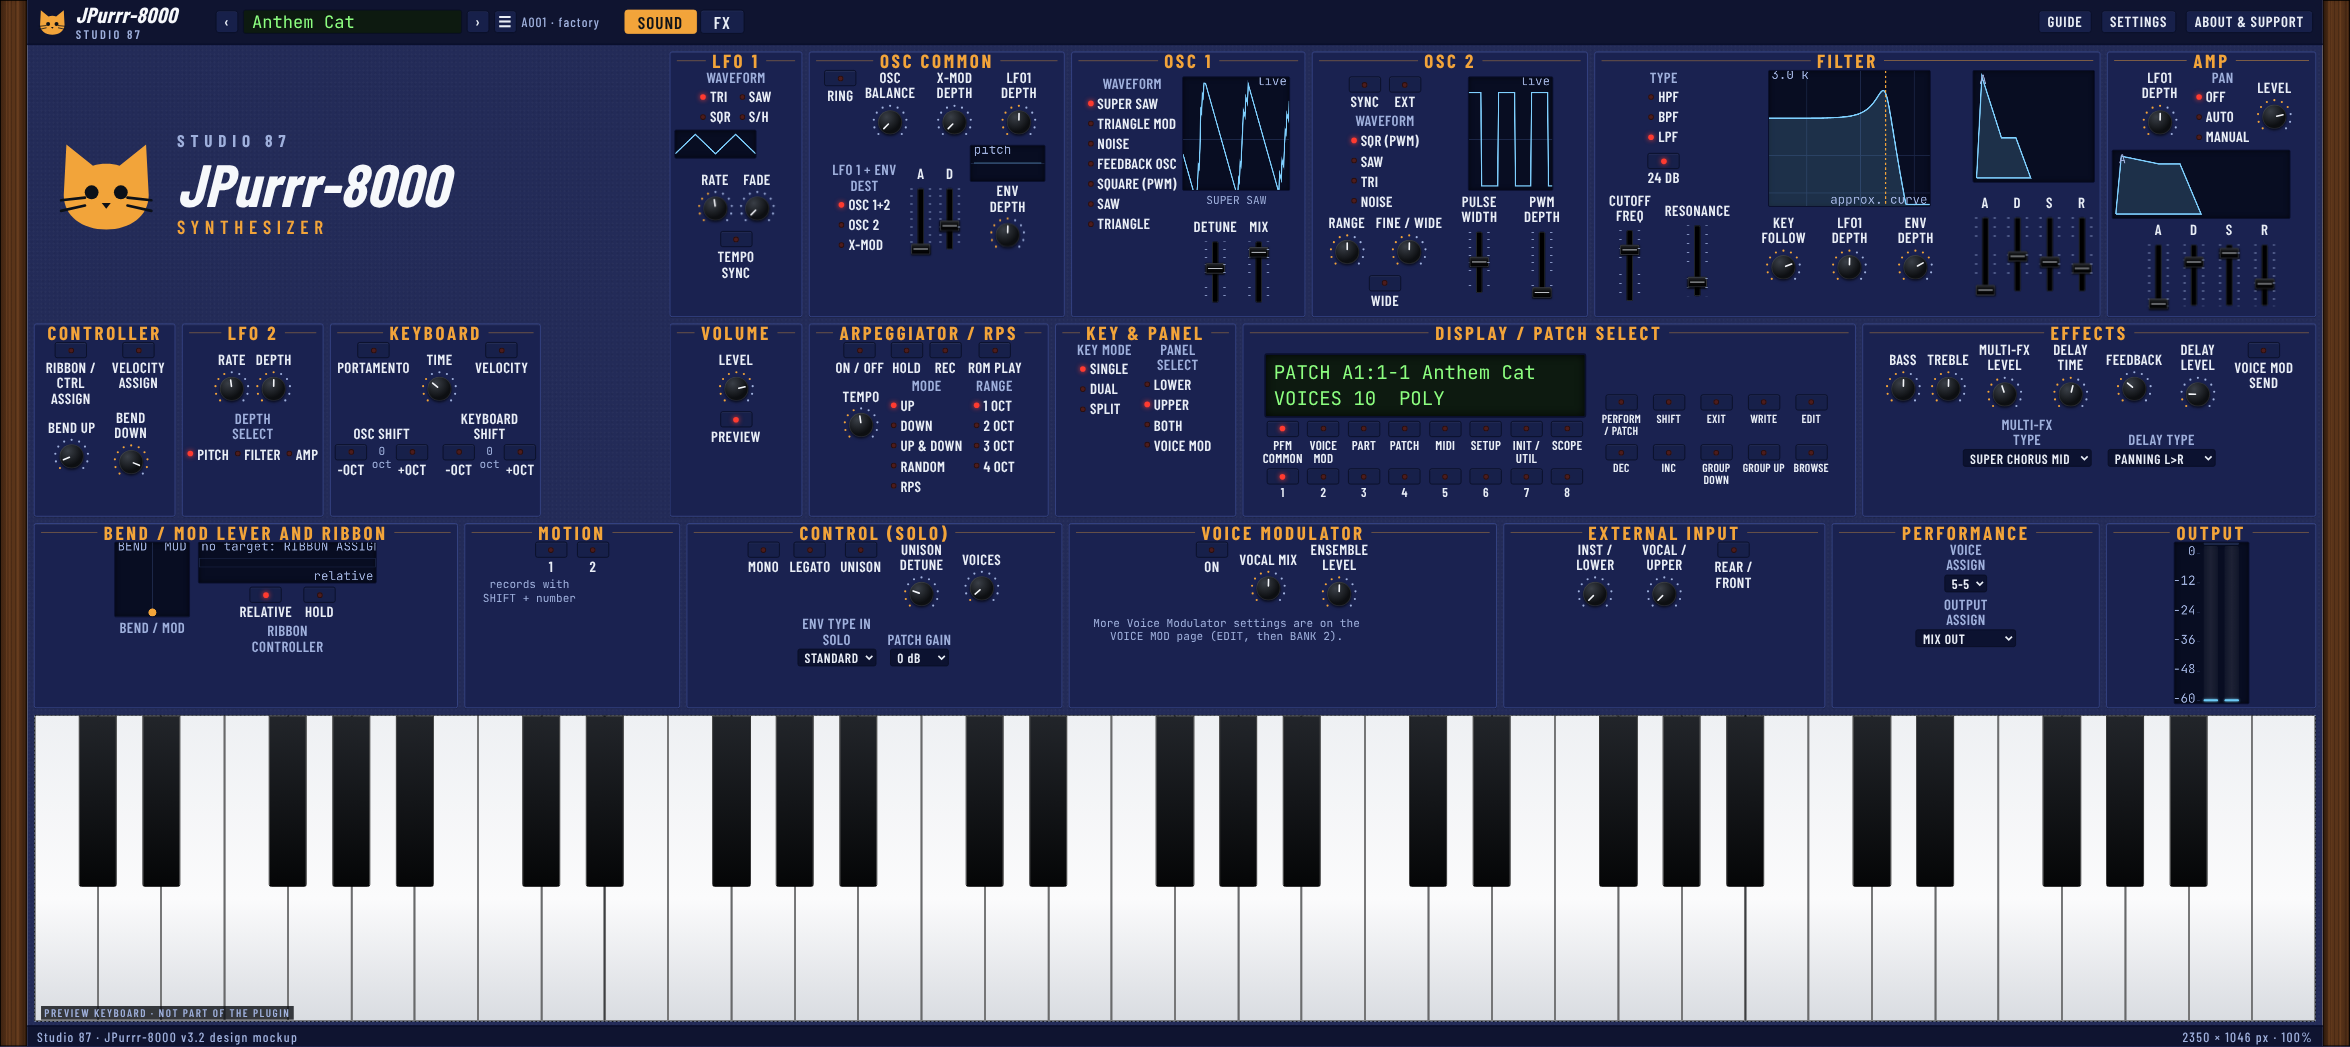
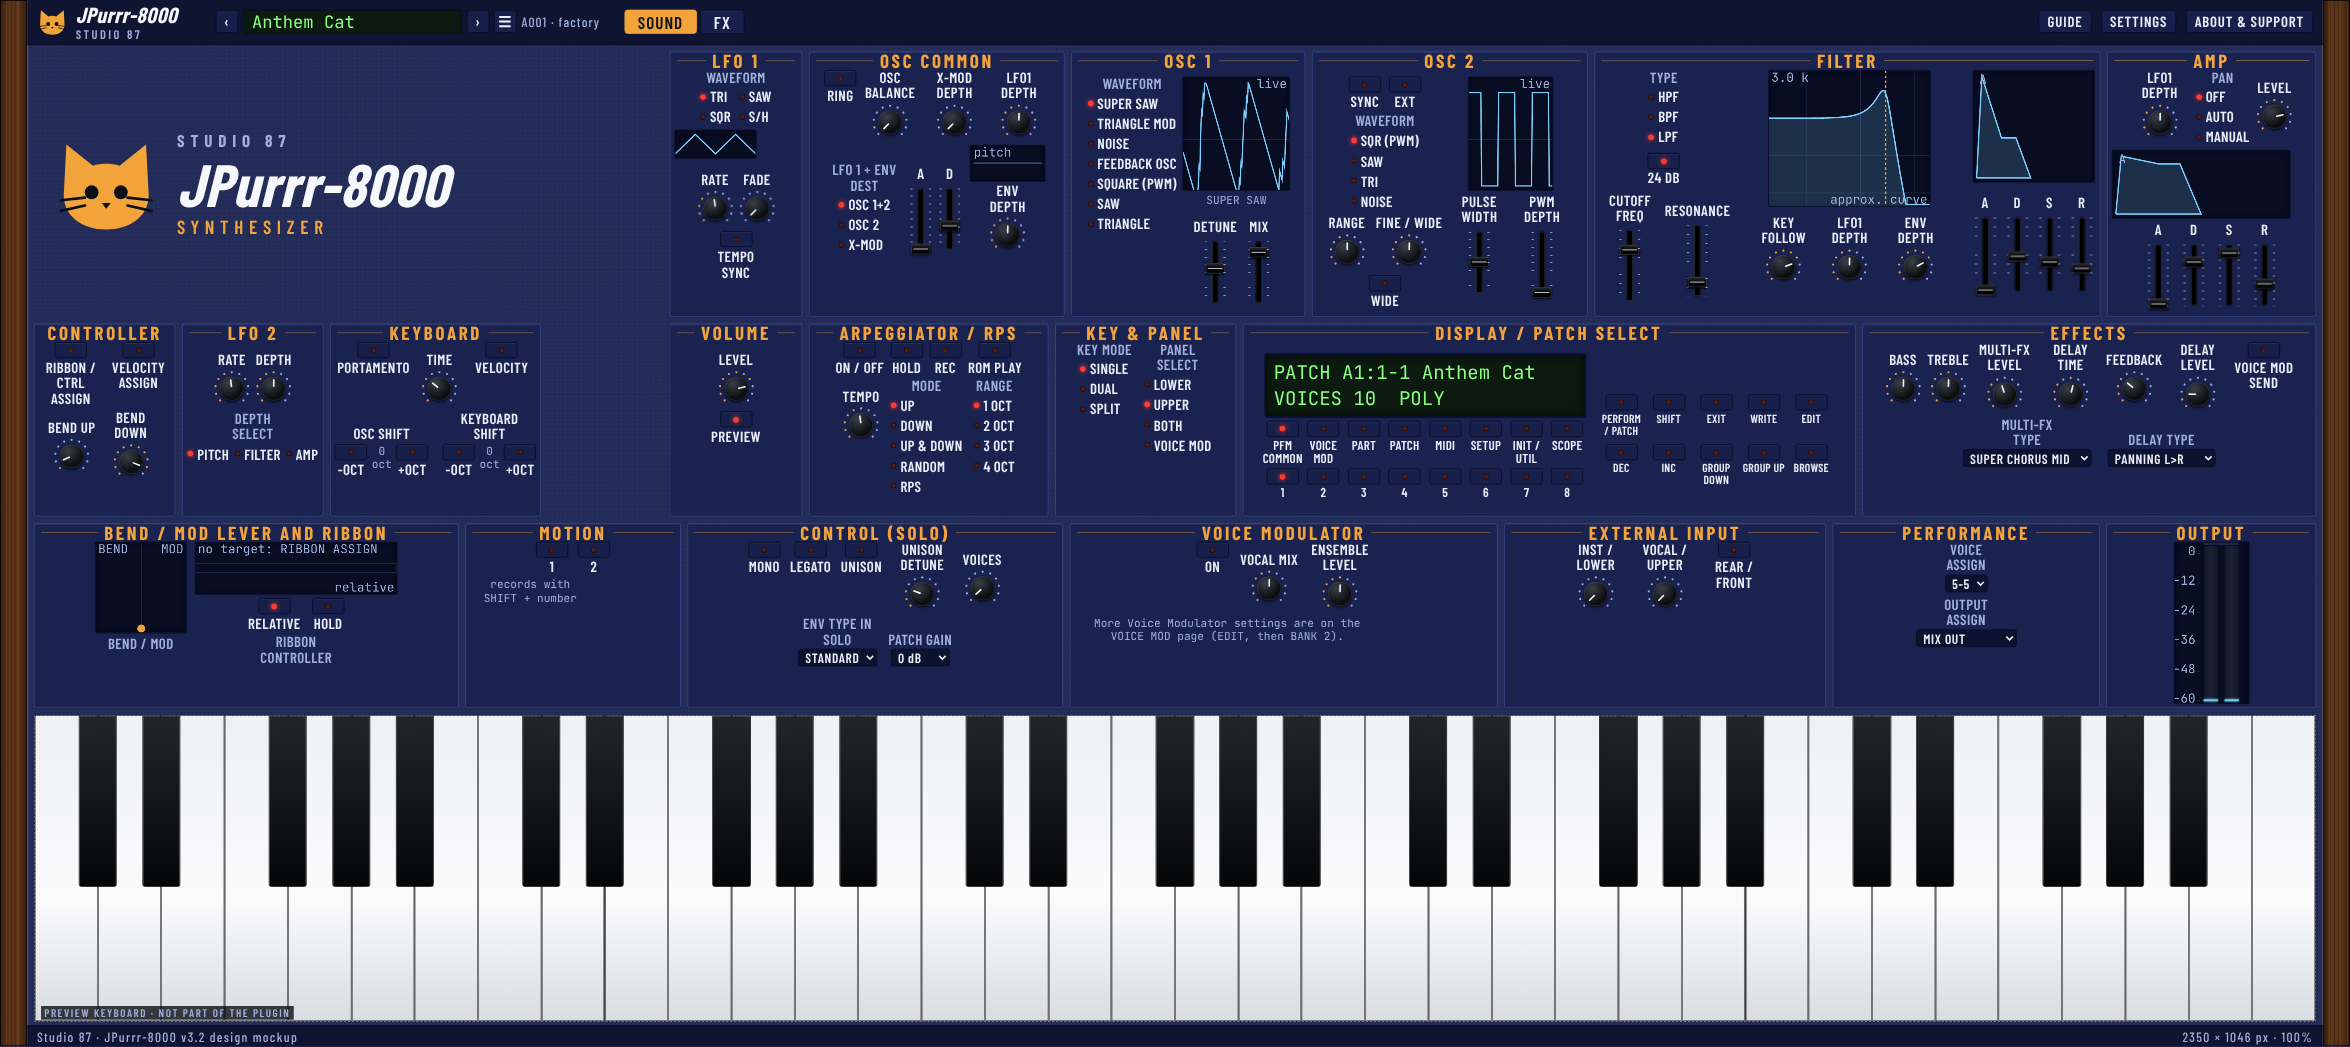
Mockup: canvas text no longer clipped, bigger bend/ribbon displays
Claude-Session: https://claude.ai/code/session_016ABbaoXQJWEN3dSNoh5BjT

diff --git a/docs/mockups/JPurrr-8000-mockup-v3.2.html b/docs/mockups/JPurrr-8000-mockup-v3.2.html
@@ -316,8 +316,8 @@ const ctr=sec('CONTROLLER',0,240,
  `<div class="row" style="gap:8px">${btn('rba','RIBBON / CTRL ASSIGN','Press, then move a knob or slider: the ribbon controller and the control lever will move that parameter.')}${btn('va','VELOCITY ASSIGN','Press, then move a knob or slider to set how velocity changes it (morphing).')}</div>`+
  `<div class="row" style="gap:6px">${K('bu','BEND UP',0,24,2,'Pitch bend range up, in semitones (0 to +24).',{fmt:v=>'+'+v+' st'})}${K('bd','BEND DOWN',-24,0,-2,'Pitch bend range down, in semitones (-24 to 0).',{fmt:v=>v+' st'})}</div>`);
 const rbn=sec('BEND / MOD LEVER AND RIBBON',0,230,
- `<div class="row" style="gap:10px;align-items:flex-start"><div class="col" data-tip="Bend and mod lever: drag left or right to bend the pitch, up to add LFO 2 (the modulation lever). It springs back when let go.">${CV('cv_pad',92,92)}<div class="lb dim w">BEND / MOD</div></div>
-  <div class="col" style="gap:4px" data-tip="Ribbon controller: touch and slide. It moves the parameter set with RIBBON / CTRL ASSIGN (or nothing). In RELATIVE mode it works around the current value.">${CV('cv_rib',220,50)}<div class="row" style="gap:14px">${T('rrel','RELATIVE',1,'Relative: the ribbon changes the value around where it is now. Dark is absolute.')}${T('rhold','HOLD',0,'Hold: the ribbon value stays when you lift your finger.')}</div><div class="lb dim w">RIBBON CONTROLLER</div></div></div>`);
+ `<div class="row" style="gap:10px;align-items:flex-start"><div class="col" data-tip="Bend and mod lever: drag left or right to bend the pitch, up to add LFO 2 (the modulation lever). It springs back when let go.">${CV('cv_pad',112,112)}<div class="lb dim w">BEND / MOD</div></div>
+  <div class="col" style="gap:4px" data-tip="Ribbon controller: touch and slide. It moves the parameter set with RIBBON / CTRL ASSIGN (or nothing). In RELATIVE mode it works around the current value.">${CV('cv_rib',250,64)}<div class="row" style="gap:14px">${T('rrel','RELATIVE',1,'Relative: the ribbon changes the value around where it is now. Dark is absolute.')}${T('rhold','HOLD',0,'Hold: the ribbon value stays when you lift your finger.')}</div><div class="lb dim w">RIBBON CONTROLLER</div></div></div>`);
 const fxs=sec('EFFECTS',0,240,
  `<div class="row" style="gap:6px">${K('tb','BASS',-64,63,0,'Tone control: low shelf. Right of centre adds low end, left cuts it.')}${K('tt','TREBLE',-64,63,0,'Tone control: high shelf. Right of centre adds highs, left cuts them.')}${K('xl','MULTI-FX LEVEL',0,127,55,'Level of the chorus, flanger, phaser or distortion chosen below.')}${K('dt','DELAY TIME',0,127,70,'Delay time. The range depends on the delay type.')}${K('dfb','FEEDBACK',0,127,40,'How much of the delay comes back into itself.')}${K('dl','DELAY LEVEL',0,127,22,'Delay level. 0 is off.')}${T('vsend','VOICE MOD SEND',0,'Send the patch into the Voice Modulator.')}</div>`+
  `<div class="row" style="gap:20px;align-items:flex-end">${D('xt','MULTI-FX TYPE',FX,1,'Multi effects type. Twelve chorus, flanger and phaser types plus DISTORTION (new on the JP-8080). Distortion takes the place of the chorus.')}${D('dty','DELAY TYPE',DLY,0,'Delay type: panning left to right, right to left, short panning, mono short or mono long.')}</div>`);
@@ -529,7 +529,8 @@ win.addEventListener('pointerleave',hideTip);win.addEventListener('pointerdown',
 /* ================= displays (canvas) ================= */
 let CC={};
 function cacheColors(){const cs=getComputedStyle(win);const g=n=>cs.getPropertyValue(n).trim();CC={bg:g('--dsp'),line:g('--dspline'),fill:g('--dspfill'),grid:g('--dspgrid'),acc:g('--dspaccent'),txt:g('--lbl2')};}
-function cx(id){const c=$('#'+id,win);if(!c)return null;const x=c.getContext('2d');x.setTransform(2,0,0,2,0,0);x.clearRect(0,0,c.dataset.w,c.dataset.h);return {x,w:+c.dataset.w,h:+c.dataset.h};}
+function fixCtx(x){if(!x._ft){x._ft=x.fillText.bind(x);x.fillText=function(t,a,b,m){const fs=parseFloat(x.font)||12;if(x.textBaseline==='alphabetic'&&b<fs*.8+1)b=fs*.8+1;return x._ft(t,a,b,m)}}return x}
+function cx(id){const c=$('#'+id,win);if(!c)return null;const x=fixCtx(c.getContext('2d'));x.setTransform(2,0,0,2,0,0);x.clearRect(0,0,c.dataset.w,c.dataset.h);return {x,w:+c.dataset.w,h:+c.dataset.h};}
 const K7=[-0.11002313,-0.06288439,-0.01952356,0,0.01991221,0.06216538,0.10745242];
 const view={o1:0,o2:0};
 function poke(o){view[o]=performance.now()+1700;requestDraw();}
@@ -736,7 +737,7 @@ const LIVE={
 function lvFlow(x,w,h,rows){if(!LV.act)return;const per=Math.ceil(FLOW.length/rows),gap=5,bw=(w-(per-1)*gap)/per,bh=(h-12-(rows-1)*8)/rows;
  const KEY=['drv','eq','eq','eq','eq','opt','ott','mb','glu','out','out','out','out'];
  FLOW.forEach((m,i)=>{const r=Math.floor(i/per),k=i%per,X=k*(bw+gap),Y=12+r*(bh+8);const on=P.qon.v&&P[m[1]].v;if(!on)return;const u=clamp((LV.lvl[KEY[i]]+50)/50,0,1);x.fillStyle=CC.acc;x.globalAlpha=.9;x.fillRect(X+3,Y+bh-6,(bw-6)*u,3);x.globalAlpha=1;});}
-function cx2(id){const c=$('#'+id,win);if(!c||!c.offsetParent)return null;const x=c.getContext('2d');x.setTransform(2,0,0,2,0,0);return {x,w:+c.dataset.w,h:+c.dataset.h};}
+function cx2(id){const c=$('#'+id,win);if(!c||!c.offsetParent)return null;const x=fixCtx(c.getContext('2d'));x.setTransform(2,0,0,2,0,0);return {x,w:+c.dataset.w,h:+c.dataset.h};}
 Object.keys(LIVE).forEach(k=>{const o=D3[k];D3[k]=function(){o();if(!LV.built)return;const c=cx2(k);if(c)LIVE[k](c.x,c.w,c.h);};});
 const LV_ANIM=['cv_f','cv_q','cv_qd','cv_ql','cv_qm','cv_qt','cv_qr','cv_qg','cv_qw','cv_qp','cv_qo','cv_pe','cv_fe','cv_ae','cv_qf','cv_qf2','cv_qa','cv_qv','cv_qdm'];
 function lvTick(){lvUpdate();if(!(LV.act||LV.was))return;LV_ANIM.forEach(k=>{const c=$('#'+k,win);if(c&&c.offsetParent)D3[k]();});}
